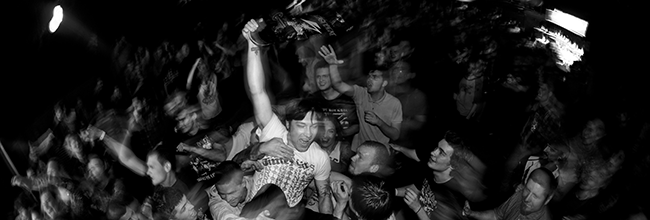
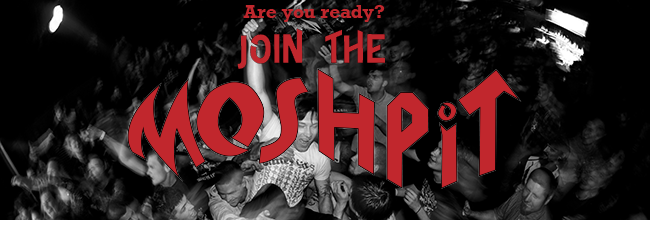
home page update 2+evencalendar update 1

diff --git a/eventcalendar.html b/eventcalendar.html
@@ -1,0 +1,110 @@
+<!doctype html>
+<html lang="en">
+<head>
+	<link href="CSS Floor.css" rel="stylesheet" type="text/css">
+    <meta charset="utf-8">
+    <meta name="viewport" content="width=device-width, initial-scale=1">
+    <title>Bootstrap demo</title>
+    <link href="https://cdn.jsdelivr.net/npm/bootstrap@5.3.3/dist/css/bootstrap.min.css" rel="stylesheet" integrity="sha384-QWTKZyjpPEjISv5WaRU9OFeRpok6YctnYmDr5pNlyT2bRjXh0JMhjY6hW+ALEwIH" crossorigin="anonymous">
+	  
+	<style type="text/css">
+		  
+    body {
+    background-color: #717276;
+}
+	</style>
+	  <link href="CSS Floor.css" rel="stylesheet" type="text/css">
+</head>
+	
+	
+	
+	
+  <body>
+	 <nav class="navbar navbar-expand-lg navbar-dark colornav">
+  <div class="container-fluid">
+    <a class="navbar-brand " href="homepage.html">Navbar</a>
+    <button class="navbar-toggler " type="button" data-bs-toggle="collapse" data-bs-target="#navbarSupportedContent" aria-controls="navbarSupportedContent " aria-expanded="false" aria-label="Toggle navigation">
+      <span class="navbar-toggler-icon"></span>
+    </button>
+    <div class="collapse navbar-collapse " id="navbarSupportedContent">
+      <ul class="navbar-nav mx-auto mb-2 mb-lg-0 ">
+
+		  
+        <li class="nav-item dropdown ">
+          <a class="nav-link dropdown-toggle" href="#" role="button" data-bs-toggle="dropdown" aria-expanded="false">
+            Events
+          </a>
+          <ul class="dropdown-menu">
+            <li><a class="dropdown-item" href="#">Calendar</a></li>
+            <li><a class="dropdown-item" href="#">MOSHPIT Events</a></li>
+            <li><a class="dropdown-item" href="#">Artist Events</a></li>
+          </ul>
+        </li>
+		  
+		    <li class="nav-item dropdown">
+          <a class="nav-link dropdown-toggle" href="#" role="button" data-bs-toggle="dropdown" aria-expanded="false">
+            Chats
+          </a>
+          <ul class="dropdown-menu">
+            <li><a class="dropdown-item" href="#">Event Chats</a></li>
+            <li><a class="dropdown-item" href="#">Artist Chats</a></li>
+          </ul>
+        </li>
+		  
+		    <li class="nav-item dropdown">
+          <a class="nav-link dropdown-toggle" href="#" role="button" data-bs-toggle="dropdown" aria-expanded="false">
+            About Us
+          </a>
+          <ul class="dropdown-menu">
+            <li><a class="dropdown-item" href="#">Meet the Team</a></li>
+            <li><a class="dropdown-item" href="#">Corporate</a></li>
+          </ul>
+        </li>
+      </ul>
+        <button class="btn btn-outline-danger" type="submit">Log In</button>
+    </div>
+  </div>
+</nav> 
+	
+<div class="bodycalendar">   
+	  <h1 class="h1calendar">February 2022</h1>
+	  <a><p>Holidays and Daily Observances in the United States</p></a>
+<ul class="calendar">
+	<li class="boxcalendar"><time datetime="2022-02-01">1</time>Dark Chocolate Day</li>
+	<li class="boxcalendar"><time datetime="2022-02-02">2</time>Groundhog Day</li>
+	<li class="boxcalendar"><time datetime="2022-02-03">3</time>Carrot Cake Day</li>
+	<li class="boxcalendar"><time datetime="2022-02-04">4</time>Wear Red Day</li>
+	<li class="boxcalendar"><time datetime="2022-02-05">5</time>Weatherperson's Day</li>
+	<li class="boxcalendar"><time datetime="2022-02-06">6</time>Chopsticks Day</li>
+	<li class="boxcalendar"><time datetime="2022-02-07">7</time>Periodic Table Day</li>
+	<li class="boxcalendar"><time datetime="2022-02-08">8</time>Kite Flying Day</li>
+	<li class="boxcalendar"><time datetime="2022-02-09">9</time>Pizza Day</li>
+	<li class="boxcalendar"><time datetime="2022-02-10">10</time>Umbrella Day</li>
+	<li class="boxcalendar"><time datetime="2022-02-11">11</time>Inventor's Day</li>
+	<li class="boxcalendar"><time datetime="2022-02-12">12</time>Global Movie Day</li>
+	<li class="boxcalendar"><time datetime="2022-02-13">13</time>Tortellini Day</li>
+	<li class="boxcalendar"><time datetime="2022-02-14">14</time>Valentine's Day</li>
+	<li class="boxcalendar"><time datetime="2022-02-15">15</time>Gumdrop Day</li>
+	<li class="boxcalendar"><time datetime="2022-02-16">16</time>Do a Grouch a Favor Day</li>
+	<li class="boxcalendar"><time datetime="2022-02-17">17</time>Cabbage Day</li>
+	<li class="boxcalendar"><time datetime="2022-02-18">18</time>Battery Day</li>
+	<li class="today boxcalendar"><time datetime="2022-02-19">19</time>Chocolate Mint Day</li>
+	<li class="boxcalendar"><time datetime="2022-02-20">20</time>Love Your Pet Day</li>
+	<li class="boxcalendar"><time datetime="2022-02-21">21</time>President's Day</li>
+	<li class="boxcalendar"><time datetime="2022-02-22">22</time>Cook a Sweet Potato Day</li>
+	<li class="boxcalendar"><time datetime="2022-02-23">23</time>Tile Day</li>
+	<li class="boxcalendar"><time datetime="2022-02-24">24</time>Toast Day</li>
+	<li class="boxcalendar"><time datetime="2022-02-25">25</time>Clam Chowder Day</li>
+	<li class="boxcalendar"><time datetime="2022-02-26">26</time>Pistachio Day</li>
+	<li class="boxcalendar"><time datetime="2022-02-27">27</time>Polar Bear Day</li>
+	<li class="boxcalendar"><time datetime="2022-02-28">28</time>Tooth Fairy Day</li>
+</ul>
+	  
+	 </div>	
+    <script src="https://cdn.jsdelivr.net/npm/bootstrap@5.3.3/dist/js/bootstrap.bundle.min.js" integrity="sha384-YvpcrYf0tY3lHB60NNkmXc5s9fDVZLESaAA55NDzOxhy9GkcIdslK1eN7N6jIeHz" crossorigin="anonymous"></script>
+  </body>
+	
+	
+	
+</html>
+

diff --git a/homepage.html b/homepage.html
@@ -1,6 +1,36 @@
 <!doctype html>
 <html lang="en">
 <head>
+	<meta charset="UTF-8">
+    <meta name="viewport" content="width=device-width, initial-scale=1.0">
+    <title>Social Media Footer</title>
+    <style>
+        footer {
+            background-color: #333;
+            color: #fff;
+            padding: 20px 0;
+            text-align: center;
+        }
+        .social-icons {
+            list-style-type: none;
+            padding: 0;
+			margin-bottom: 20px;
+		}
+        .social-icons li {
+            display: inline-block;
+            margin: 0 10px;
+        }
+         .social-icons li img {
+            width: 40px; 
+            height: 40px;
+          
+            overflow: hidden; 
+        }
+        .contact-info {
+            margin-top: 20px;
+            font-size: 18px;
+        }
+    </style>
     <meta charset="UTF-8">
     <meta name="viewport" content="width=device-width, initial-scale=1">
     <title>Homepage</title>
@@ -11,6 +41,7 @@
     background-color: #717276;
 }
 	</style>
+	
 </head>
 	
   <body>
@@ -30,7 +61,7 @@
             Events
           </a>
           <ul class="dropdown-menu">
-            <li><a class="dropdown-item" href="#">Calendar</a></li>
+            <li><a class="dropdown-item" href="eventcalendar.html">Calendar</a></li>
             <li><a class="dropdown-item" href="#">MOSHPIT Events</a></li>
             <li><a class="dropdown-item" href="#">Artist Events</a></li>
           </ul>
@@ -333,10 +364,24 @@
 	  
 	  <center>
 	  <div class="button-overlay">
-    <img src="images/Background/bannermoshpit.png" width="1435" heigth="240" alt="photo of moshpit">
+    <img src="images/Background/bannermoshpitnew.png" width="1435" heigth="240" alt="photo of moshpit">
     <button>Button Here!</button>
   </div>
 	</center>
+	  
+	 <footer>
+        <ul class="social-icons">
+            <li><a href="https://www.instagram.com/join.the.moshpit/"><img src="images/instagram.svg" alt="Logo instagram" ></a></li>
+            <li><a href="https://www.tiktok.com/@join.the.moshpit"><img src="images/tiktok.svg" alt="Logo tiktok"></a></li>
+        </ul>
+        <div class="contact-info">
+            Email: join.the.moshpit.events@gmail.com<br>
+            Phone: +31 6 11597098
+        </div>
+    </footer>
+	  
+	  
+	 
 	  
 <script src="https://cdn.jsdelivr.net/npm/bootstrap@5.3.3/dist/js/bootstrap.bundle.min.js" integrity="sha384-YvpcrYf0tY3lHB60NNkmXc5s9fDVZLESaAA55NDzOxhy9GkcIdslK1eN7N6jIeHz" crossorigin="anonymous"></script>
 </body>

diff --git a/CSS Floor Calendar.css b/CSS Floor Calendar.css
@@ -1,0 +1,51 @@
+@charset "UTF-8";
+.bodycalendar {
+	display: flex;
+	flex-flow: column;
+	align-items: center;
+	font-family: "Poppins", serif;
+	background-color: #717276;
+	;
+}
+.h1calendar {
+	font-weight: 800;
+	margin: 1rem 0 0;
+	text-color: #fdd838;
+}
+
+.calendar {
+	display: grid;
+	grid-template-columns: 1fr 1fr 1fr 1fr 1fr 1fr 1fr;
+	flex-wrap: wrap;
+	list-style: none;
+}
+
+.boxcalendar {
+		display: flex;
+		width: 10rem;
+		height: 10rem;
+		margin: 0.25rem;
+		flex-flow: column;
+		border-radius: 0.2rem;
+		padding: 1rem;
+		font-weight: 300;
+		font-size: 0.8rem;
+		box-sizing: border-box;
+		background: rgba(255, 255, 255, 0.25);
+		box-shadow: 0 8px 32px 0 #272c7e;
+		backdrop-filter: blur(4px);
+		-webkit-backdrop-filter: blur(4px);
+		border-radius: 10px;
+		border: 1px solid rgba(255, 255, 255, 0.18);
+	}
+		
+		time {
+			font-size: 2rem;
+			margin: 0 0 1rem 0;
+			font-weight: 500;
+		}
+	
+	.today{ 
+		background: #c3252f;
+	}
+

diff --git a/CSS Floor.css b/CSS Floor.css
@@ -1,4 +1,5 @@
 @charset "UTF-8";
+@import url("CSS Floor Calendar.css");
 .btnnav{
     border-width: thin;
     border-color: #C3252F;
@@ -33,10 +34,11 @@
   left: 50%;
   transform: translate(-50%, -50%);
   padding: 15px 30px;
-  background-color: #157f87f7;
-  color: #fff;
+  background-color: #c3252f;
+  color: #202020;
   border-radius: 5px;
 }
 .button-overlay button:hover {
-  background-color: #1badb8f7;
+  background-color: #272c7e;
 }
+
